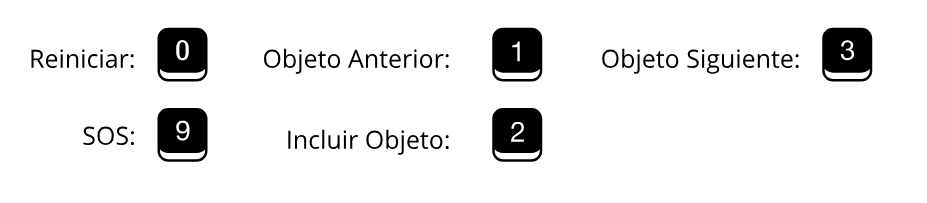
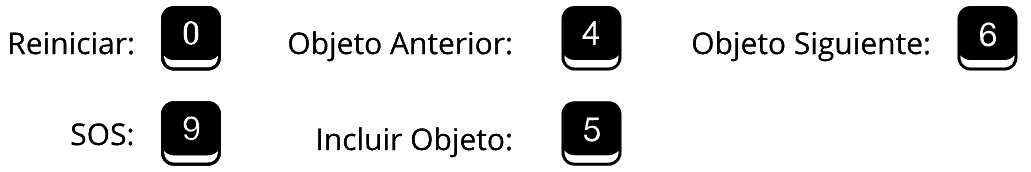
no more un dosh tresh :(

diff --git a/Supervivencia/src/Desert/ShortcutsSection.jsx b/Supervivencia/src/Desert/ShortcutsSection.jsx
@@ -6,7 +6,7 @@ function ShortcutsSection({ showShortcuts }) {
     return (
         <div id="shortcutsContainer" className="position-absolute z-1 bg-white border border-black rounded p-3 mb-5 appear-animation w-75 d-flex flex-column justify-content-center align-items-center top-50 start-50 translate-middle ">
             <h1 style={{ fontSize: 'calc(12px + (60 - 12) * ((100vmin - 350px) / (1080 - 350)))'}}>Atajos de teclado</h1>
-            <img src={atajos} alt="Atajos: con el 0 puedes reiniciar el juego, con el 1 puedes mostrar el objeto anterior, con el 3 puedes mostrar el siguiente objeto, con el 9 puedes activar el menu de ayuda SOS y con el 2 puedes incluir el objeto en la mochila"></img>
+            <img src={atajos} alt="Atajos: con el 0 puedes reiniciar el juego, con el 4 puedes mostrar el objeto anterior, con el 5 puedes incluir el objeto en la mochila, con el 6 puedes mostrar el siguiente objeto y con el 9 puedes activar el menu de ayuda SOS y "></img>
             <button id="bagCloseHelp" className="btn btn-dark h-25 mt-1" style={{ maxHeight: '50px' }} onClick={showShortcuts}>Volver</button>
         </div>
     );

diff --git a/Supervivencia/src/Desert/Desert.css b/Supervivencia/src/Desert/Desert.css
@@ -240,9 +240,6 @@
     line-height: 1.2;
 }
 
-#shortcutsContainer{
-}
-
 #shortcutsContainer img{
     object-fit: contain;
     max-width: 100%;
